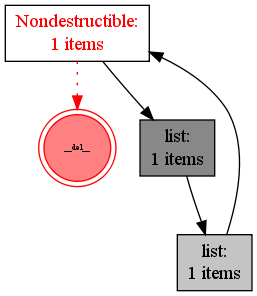
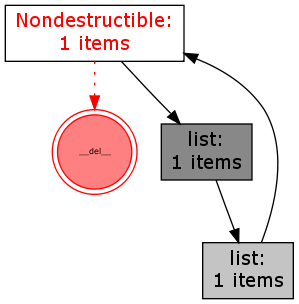
Change the logic of the filename argument to show_refs/show_backrefs:
* if not specified (i.e. None), spawn xdot as before
  * if ends in '.dot', skip running xdot/dot
  * if ends in '.png', skip xdot, run dot
  * otherwise skip xdot/dot, complain to stdout

Also made it not fail with OSError if 'dot' was not installed.

Also made it create temporary files with tempfile.NamedTemporaryFile.

Also fixed setup.py --build-images and rewrote it to use doctest directly,
since it no longer inserts code in between doctest sections.  As a side
effect the --build-images thing now acts as a (rather small) test suite.

diff --git a/objgraph.py b/objgraph.py
@@ -24,6 +24,11 @@ Changes
 
 Highlight objects with a __del__ method.
 
+show_refs, show_backrefs don't create files in the current working
+directory any more.  Instead they accept a filename argument.  It can be a
+.dot file or a .png file.  If None or not specified, those functions will try
+to spawn xdot as before.
+
 
 1.2 (2009-03-25)
 ----------------
@@ -66,7 +71,7 @@ __author__ = "Marius Gedminas (marius@gedmin.as)"
 __copyright__ = "Copyright (c) 2008, 2009 Marius Gedminas"
 __license__ = "MIT"
 __version__ = "1.2+bzr"
-__date__ = "2009-03-25"
+__date__ = "2010-02-01"
 
 
 import gc
@@ -75,8 +80,8 @@ import types
 import weakref
 import operator
 import os
-import os.path
 import subprocess
+from tempfile import NamedTemporaryFile
 
 
 def count(typename):
@@ -206,7 +211,7 @@ def find_backref_chain(obj, predicate, max_depth=20, extra_ignore=()):
 
 
 def show_backrefs(objs, max_depth=3, extra_ignore=(), filter=None, too_many=10,
-                  highlight=None, filename='backrefs'):
+                  highlight=None, filename=None):
     """Generate an object reference graph ending at ``objs``
 
     The graph will show you what objects refer to ``objs``, directly and
@@ -243,7 +248,7 @@ def show_backrefs(objs, max_depth=3, extra_ignore=(), filter=None, too_many=10,
 
 
 def show_refs(objs, max_depth=3, extra_ignore=(), filter=None, too_many=10,
-              highlight=None, filename='refs'):
+              highlight=None, filename=None):
     """Generate an object reference graph starting at ``objs``
 
     The graph will show you what objects are reachable from ``objs``, directly
@@ -284,10 +289,15 @@ def show_refs(objs, max_depth=3, extra_ignore=(), filter=None, too_many=10,
 
 def show_graph(objs, edge_func, swap_source_target,
                max_depth=3, extra_ignore=(), filter=None, too_many=10,
-               highlight=None, filename='objects'):
+               highlight=None, filename=None):
     if not isinstance(objs, (list, tuple)):
         objs = [objs]
-    f = file(filename + '.dot', 'w')
+    if filename and filename.endswith('.dot'):
+        f = file(filename, 'w')
+        dot_filename = filename
+    else:
+        f = NamedTemporaryFile('w', suffix='.dot', delete=False)
+        dot_filename = f.name
     print >> f, 'digraph ObjectGraph {'
     print >> f, '  node[shape=box, style=filled, fillcolor=white];'
     queue = []
@@ -348,17 +358,31 @@ def show_graph(objs, edge_func, swap_source_target,
                 break
     print >> f, "}"
     f.close()
-    print "Graph written to %s.dot (%d nodes)" % (filename, nodes)
-    if program_in_path('xdot'):
+    print "Graph written to %s (%d nodes)" % (dot_filename, nodes)
+    if filename is None and program_in_path('xdot'):
         print "Spawning graph viewer (xdot)"
-        subprocess.Popen(['xdot', filename + '.dot'])
-    else:
-        pngfile = file(filename + '.png', 'wb')
-        dot = subprocess.Popen(['dot', '-Tpng', filename + '.dot'],
-                               stdout=pngfile)
+        subprocess.Popen(['xdot', dot_filename])
+    elif program_in_path('dot'):
+        if filename is None:
+            print "Graph viewer (xdot) not found, generating a png instead"
+        if filename and filename.endswith('.png'):
+            f = file(filename, 'wb')
+            png_filename = filename
+        else:
+            if filename is not None:
+                print "Unrecognized file type (%s)" % filename
+            f = NamedTemporaryFile('wb', suffix='.png', delete=False)
+            png_filename = f.name
+        dot = subprocess.Popen(['dot', '-Tpng', dot_filename],
+                               stdout=f)
         dot.wait()
-        pngfile.close()
-        print "Image generated as %s.png" % filename
+        f.close()
+        print "Image generated as %s" % png_filename
+    else:
+        if filename is None:
+            print "Graph viewer (xdot) and image renderer (dot) not found, not doing anything else"
+        else:
+            print "Unrecognized file type (%s), not doing anything else" % filename
 
 
 def obj_node_id(obj):

diff --git a/setup.py b/setup.py
@@ -1,4 +1,5 @@
-import os, sys, itertools
+#!/usr/bin/python
+import os, sys, doctest
 
 try:
     from setuptools import setup
@@ -17,20 +18,9 @@ def get_version():
     return d['__version__']
 
 
-def build_images():
-    env = {}
-    block = []
-    for line in itertools.chain(open(relative('README.txt')),
-                                open(relative('examples.txt'))):
-        if line.startswith('    ...'):
-            block.append(line[8:].rstrip())
-        if line.startswith('    >>>'):
-            if block:
-                exec('\n'.join(block), env)
-                block = []
-            block.append(line[8:].rstrip())
-    if block:
-        exec('\n'.join(block), env)
+def build_images(sources=['README.txt', 'examples.txt']):
+    for fn in sources:
+        doctest.testfile(fn, optionflags=doctest.ELLIPSIS)
 
 
 if len(sys.argv) > 1 and sys.argv[1] == '--build-images':
